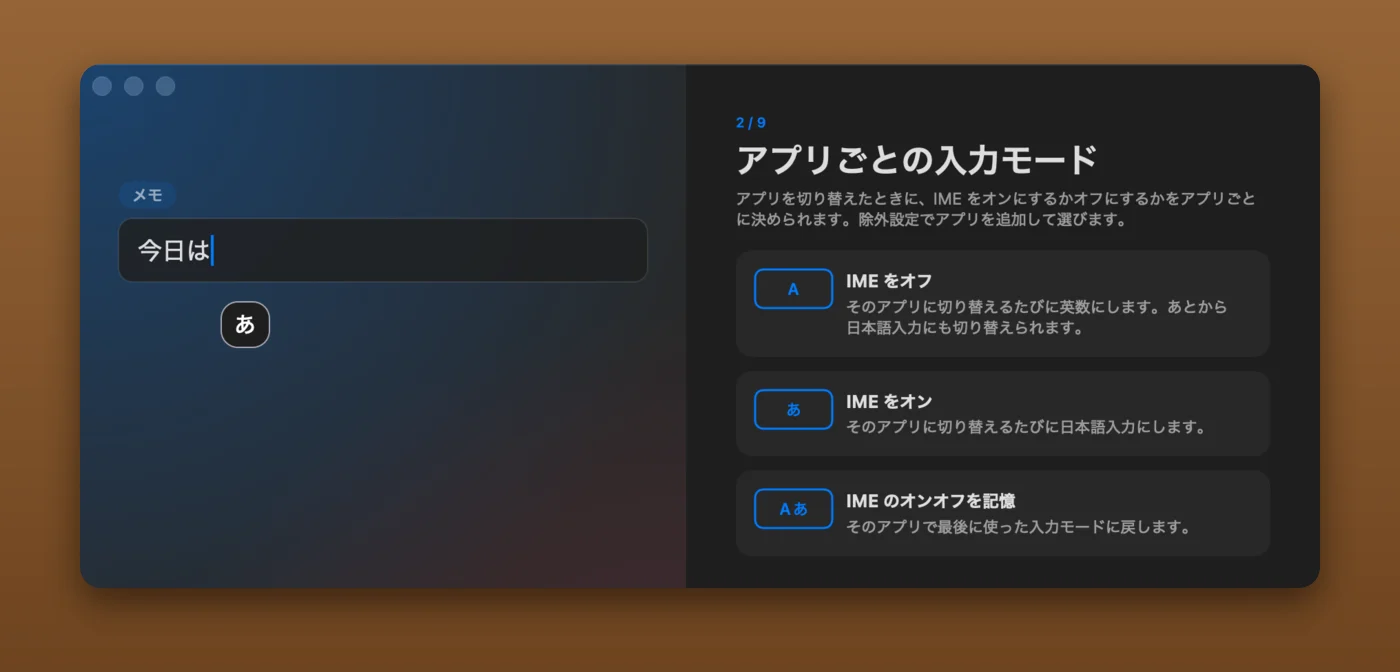
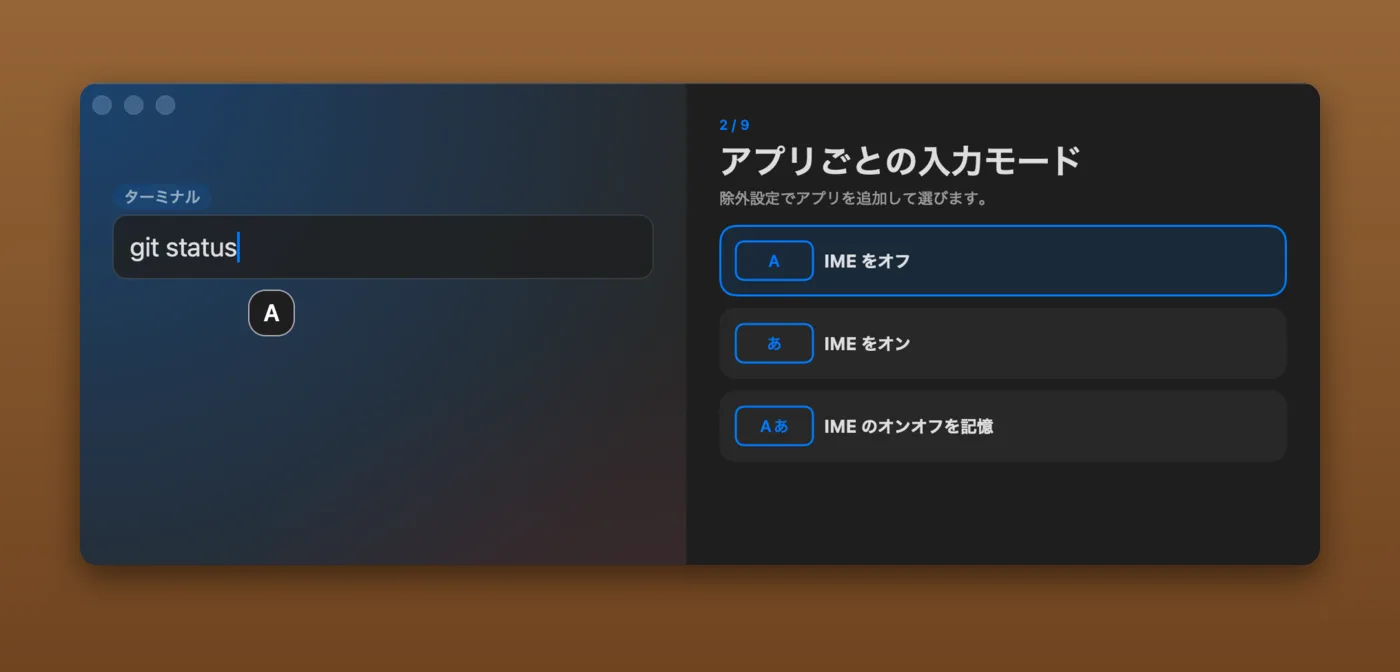
fix(docs): 公式サイトの表の列と見出しをそろえ，狭い画面で表と見出しが崩れないようにする

diff --git a/apps/docs-site/assets/css/custom.css b/apps/docs-site/assets/css/custom.css
@@ -23,6 +23,8 @@
 }
 
 .hajime-gradient-text {
+  /* 狭い画面で「高機能日本語IME」を途中で折り返さず，まとめて次の行に送る */
+  display: inline-block;
   background-image: linear-gradient(90deg, var(--hajime-sun-from), var(--hajime-sun-to) 45%, var(--hajime-step-via) 80%, var(--hajime-step-to));
   -webkit-background-clip: text;
   background-clip: text;
@@ -81,6 +83,8 @@
 }
 
 .hajime-hero__note a {
+  /* リンクの文を途中で折り返さない */
+  display: inline-block;
   text-decoration: underline;
   text-underline-offset: 2px;
 }
@@ -167,8 +171,14 @@
     order: 2;
   }
 
-  .hajime-feature--text {
-    grid-template-columns: minmax(0, 1fr);
+  /* 写真の無い機能も説明の列の幅にそろえ，左に置く(ほかの機能と行の長さを同じにする) */
+  .hajime-feature--text,
+  .hajime-feature--text:nth-of-type(even) {
+    grid-template-columns: minmax(0, 2fr) minmax(0, 3fr);
+  }
+
+  .hajime-feature--text:nth-of-type(even) .hajime-feature__body {
+    order: 0;
   }
 }
 
@@ -271,5 +281,42 @@
   to {
     opacity: 1;
     transform: none;
+  }
+}
+
+/*
+ * 文書の表．見出しを中身と同じく左にそろえ，ページの中の表で列の幅をそろえる(項目の列と既定の列)．
+ * 狭い画面では列を 1 字の幅まで細くせず，表を横に送る(Hextra の表は横に送れる)
+ */
+.content table:not(.hextra-code-block table) th {
+  text-align: left;
+}
+
+@media (min-width: 768px) {
+  .content table:not(.hextra-code-block table):not(:has(th:nth-child(4))) {
+    display: table;
+    table-layout: fixed;
+  }
+
+  .content table:not(.hextra-code-block table):not(:has(th:nth-child(4))) th:first-child {
+    width: 28%;
+  }
+
+  .content table:not(.hextra-code-block table):not(:has(th:nth-child(4))) th:nth-child(2):not(:last-child) {
+    width: 18%;
+  }
+}
+
+@media (max-width: 767px) {
+  .content table:not(.hextra-code-block table) :is(th, td):first-child {
+    min-width: 7rem;
+  }
+
+  .content table:not(.hextra-code-block table) :is(th, td):nth-child(2):not(:last-child) {
+    min-width: 5rem;
+  }
+
+  .content table:not(.hextra-code-block table) :is(th, td):last-child {
+    min-width: 12rem;
   }
 }

diff --git a/apps/docs-site/content/_index.md b/apps/docs-site/content/_index.md
@@ -131,7 +131,7 @@ layout: hextra-home
     subtitle="アプリを切り替えたときに日本語入力にするか英数にするかを，アプリごとに決められます．"
     link="docs/settings/#除外設定"
     image="images/features/app-modes.webp"
-    alt="初期設定のアプリごとの入力モードの画面．IME をオフ，IME をオン，IME のオンオフを記憶を説明している"
+    alt="初期設定のアプリごとの入力モードの画面．IME をオフを選び，ターミナルに切り替えると英数(A)になる実演を出している"
   >}}
   {{< hajime/feature
     title="外部通信不要"
